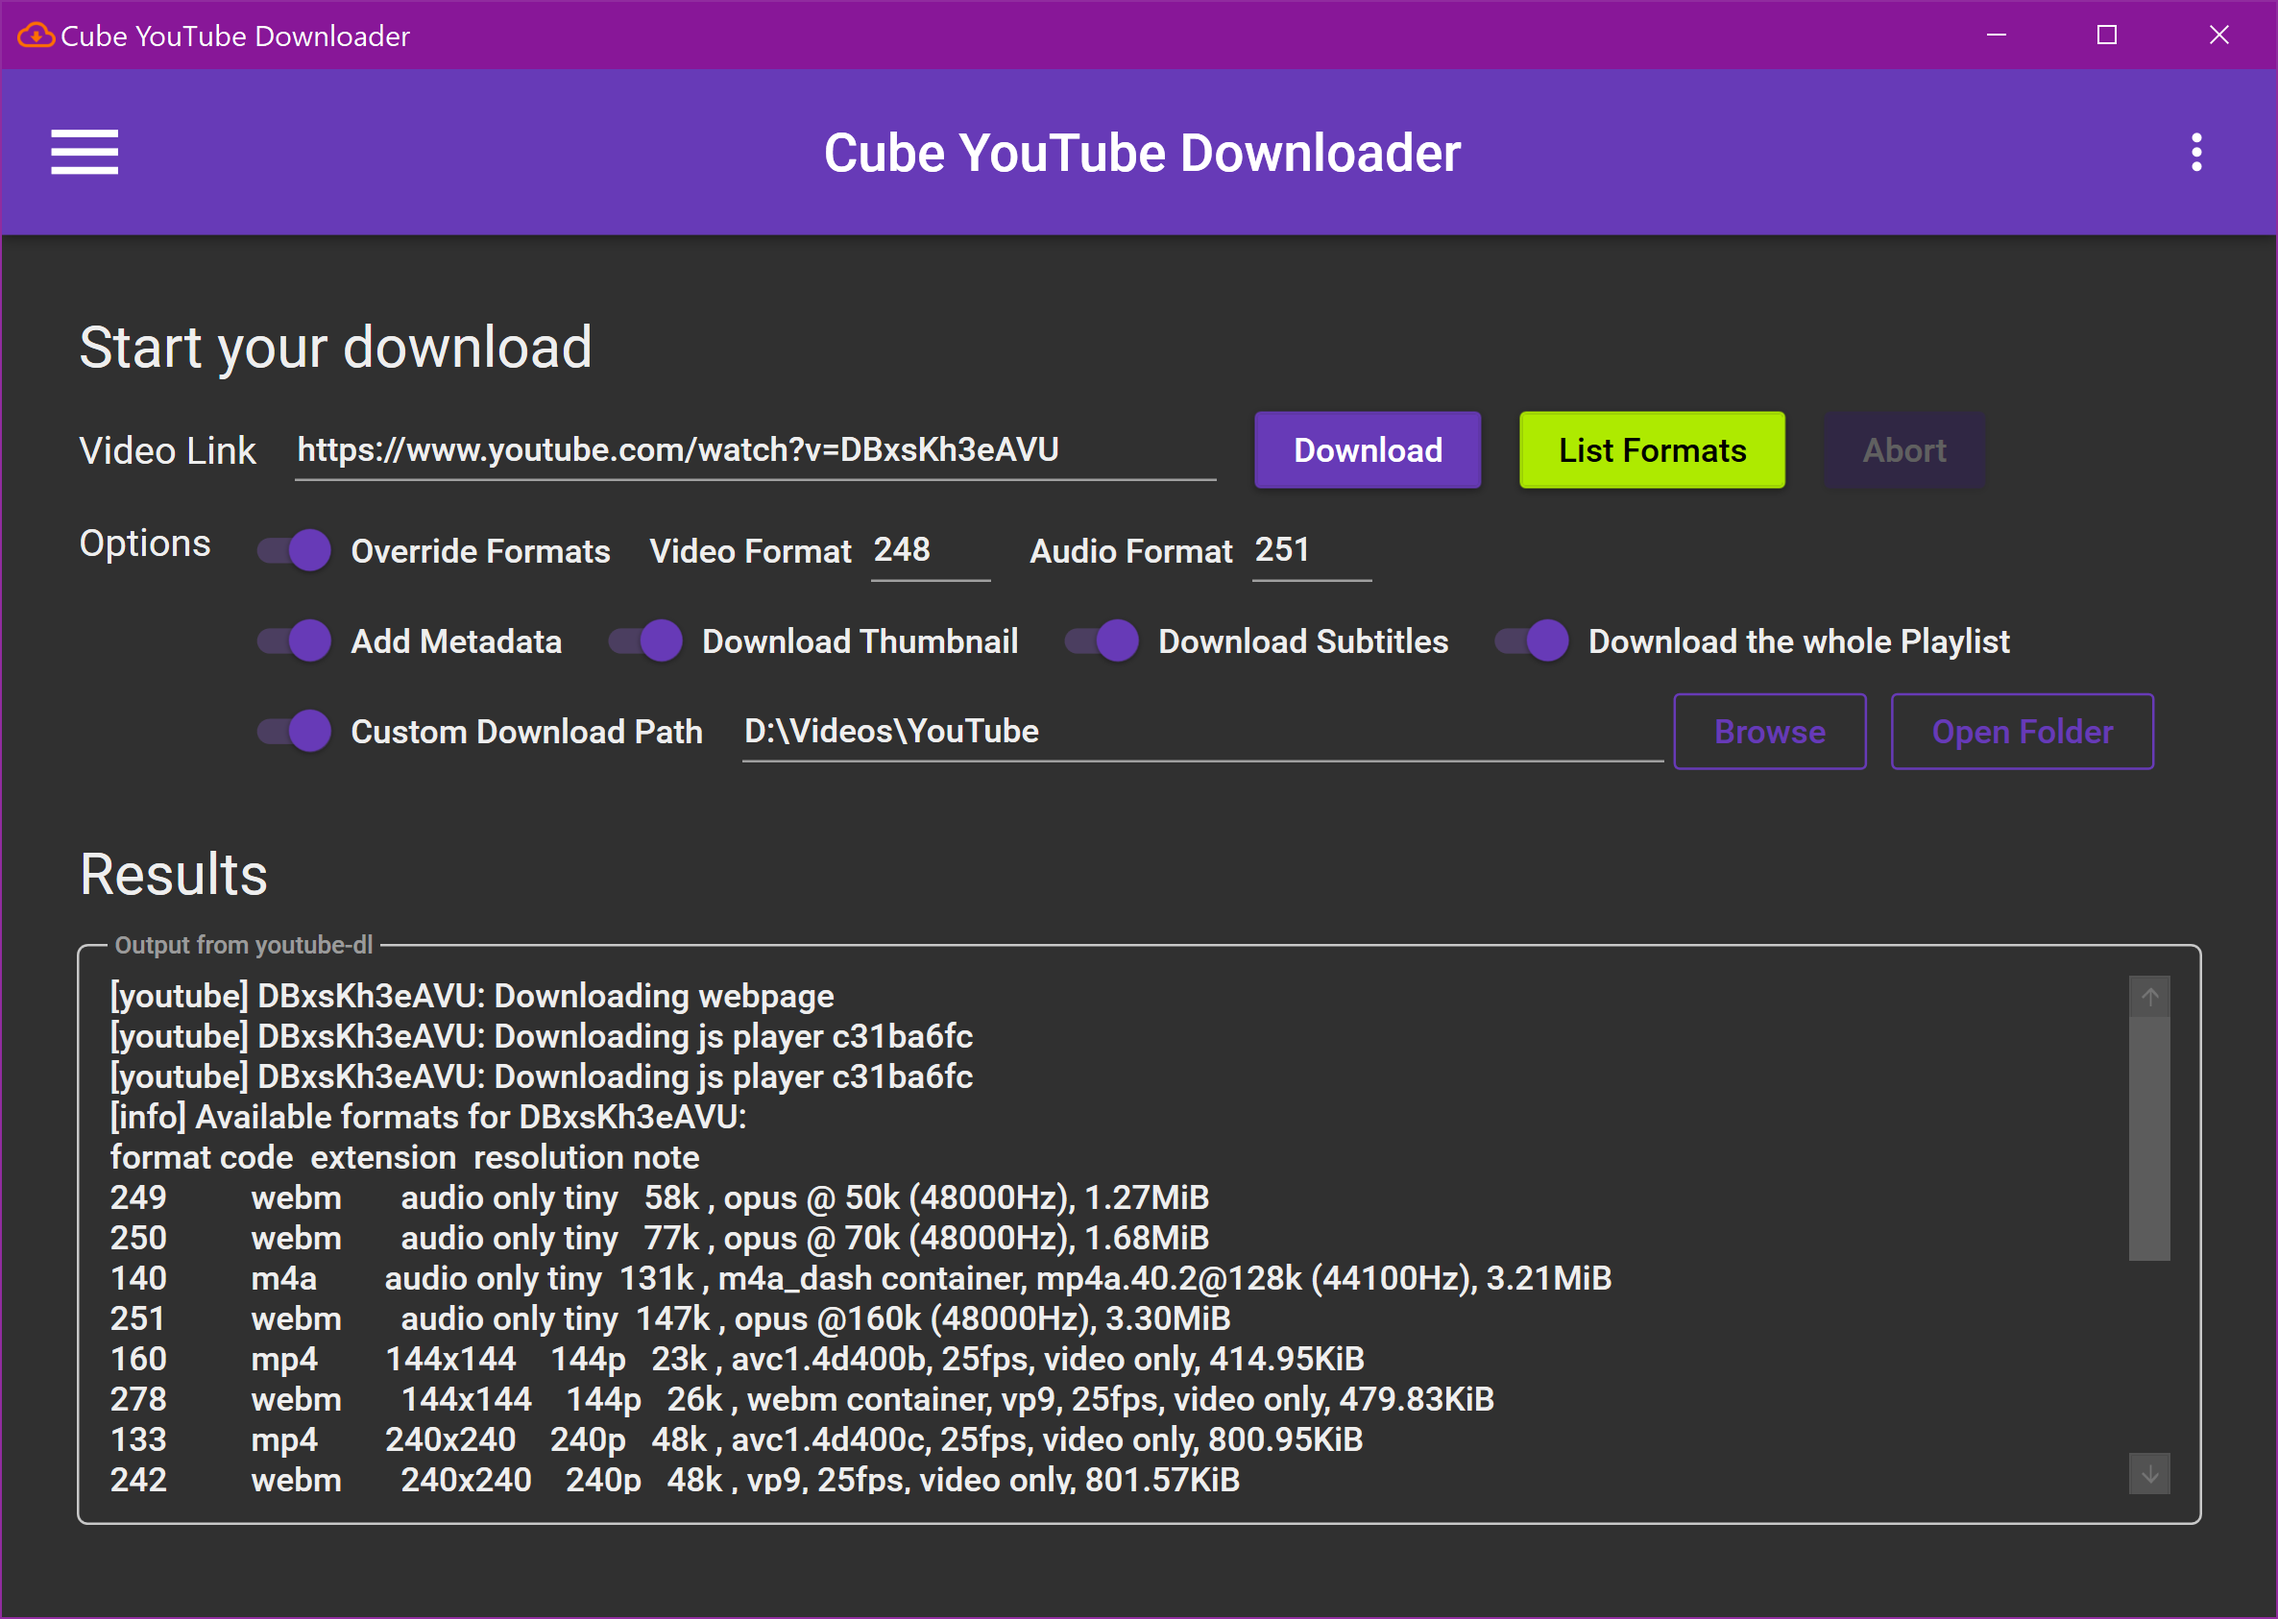
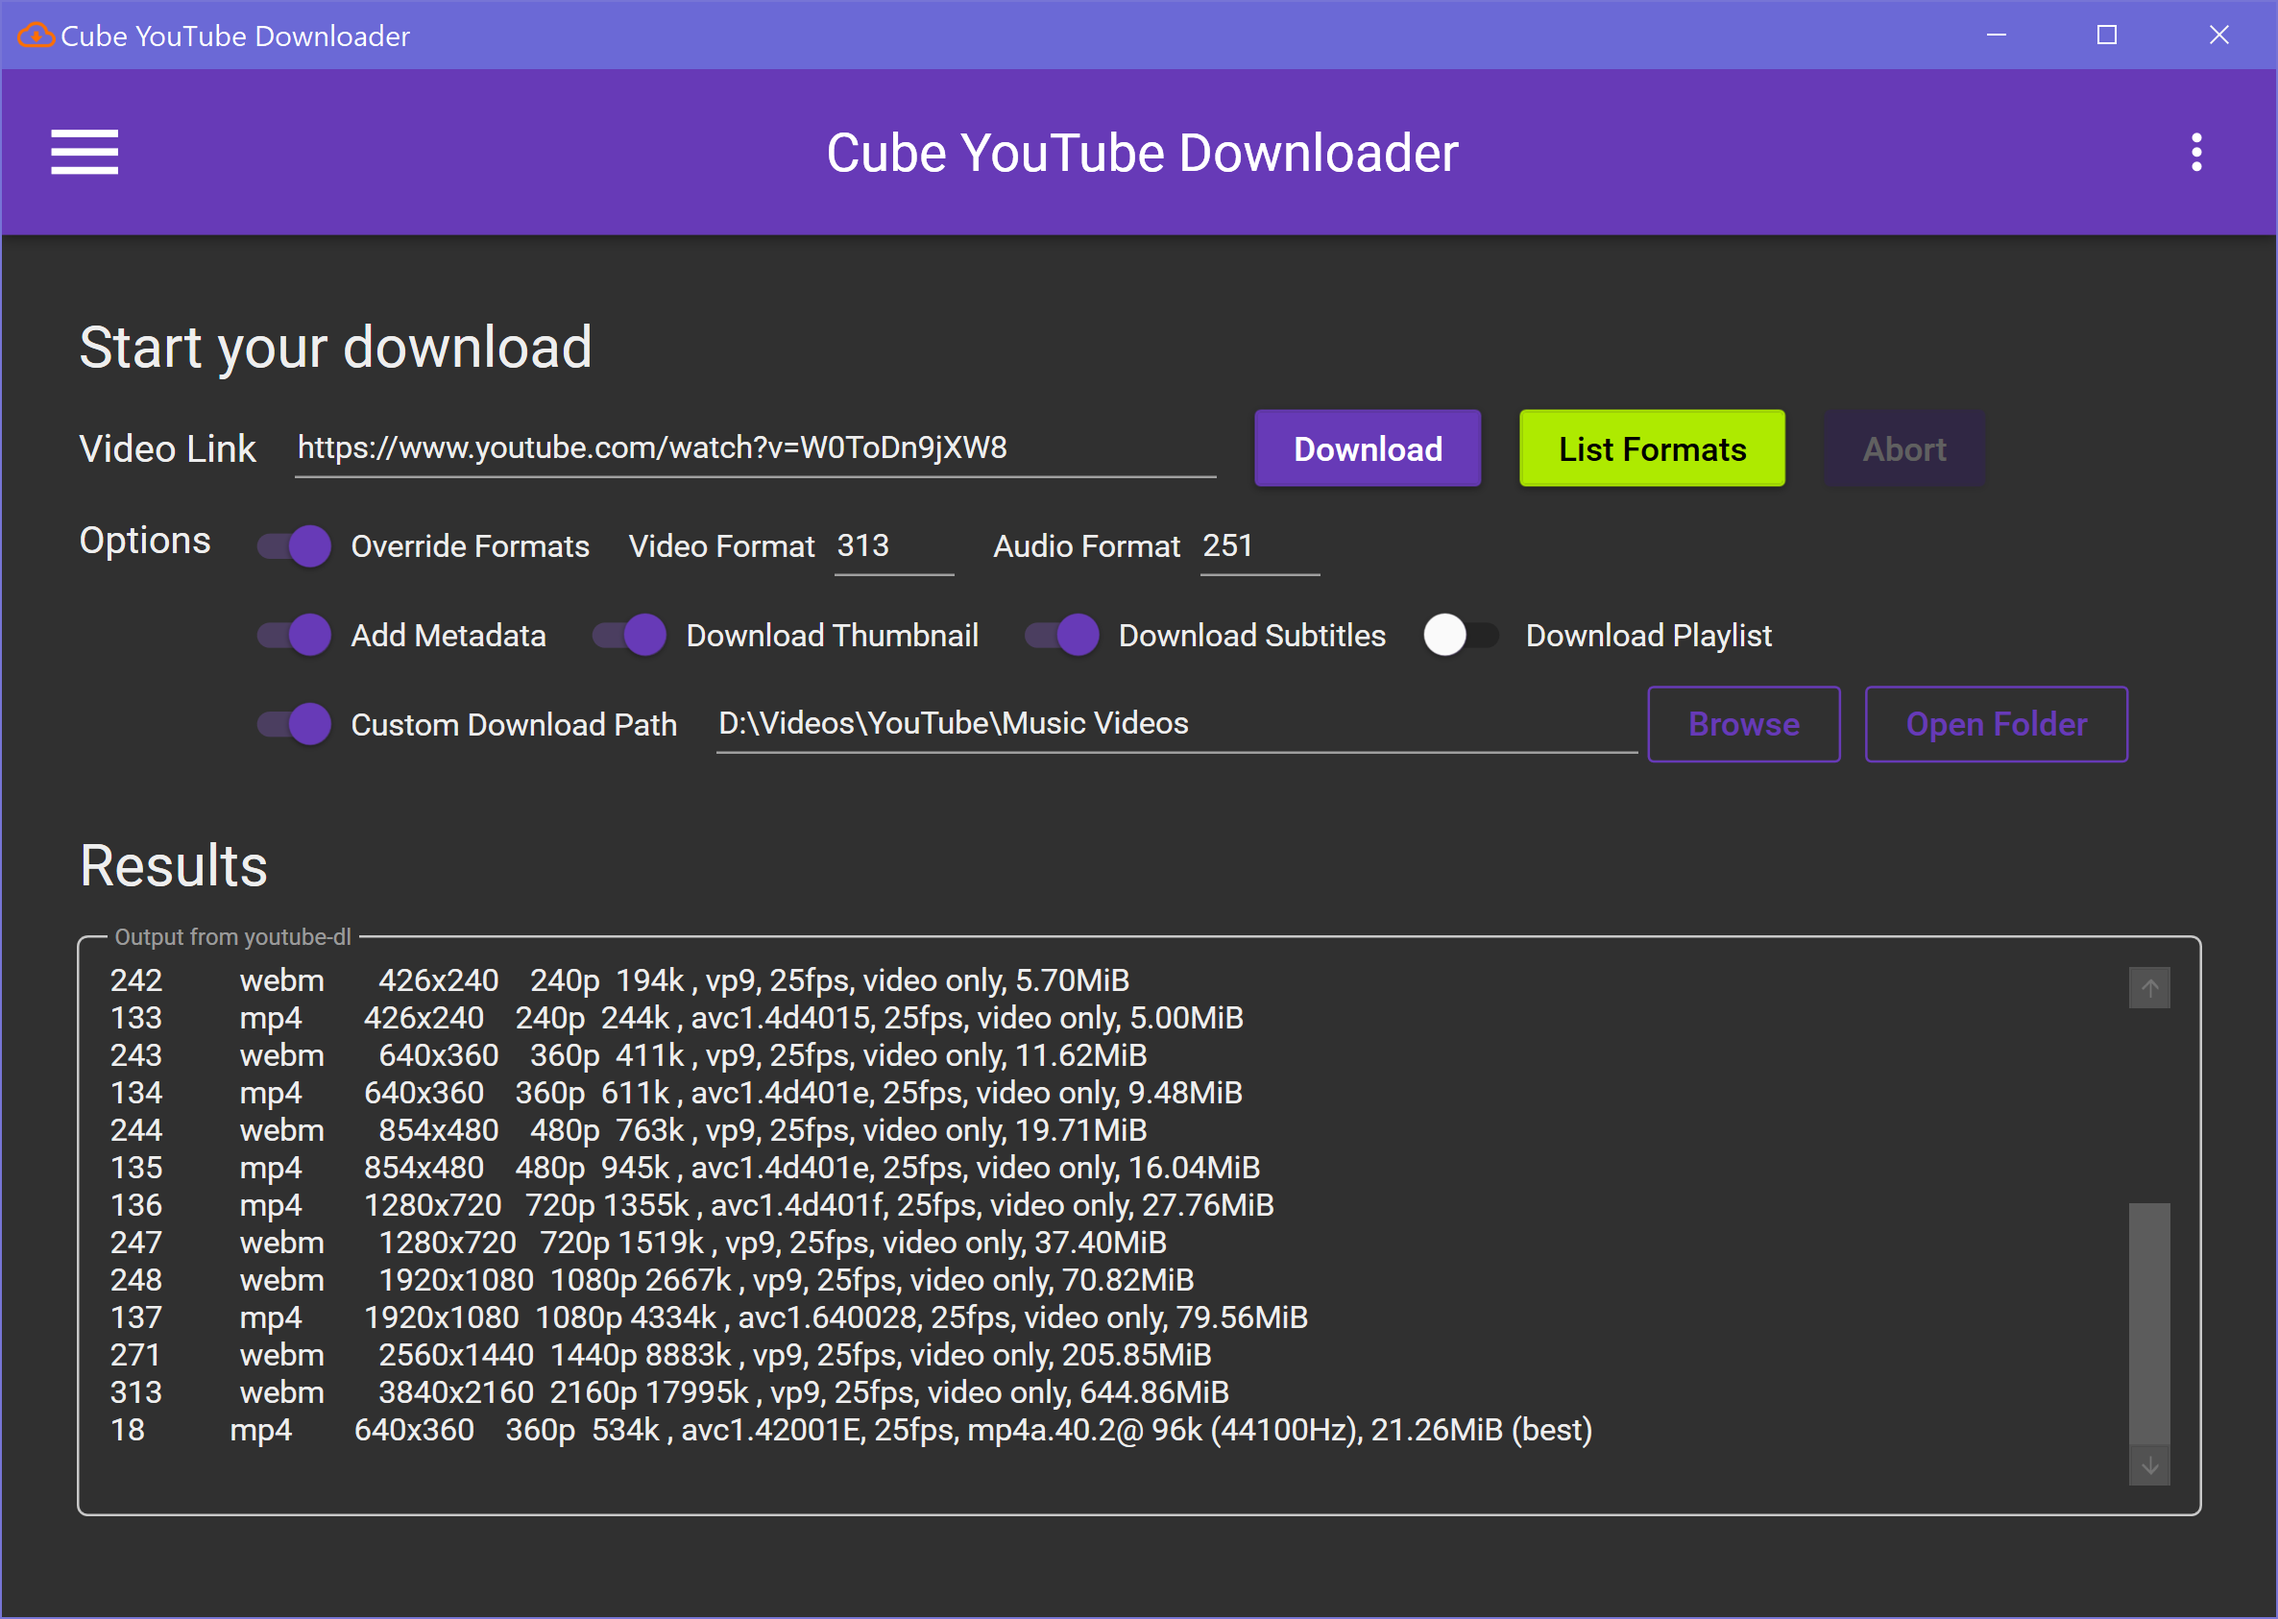
🥽 UI Improvements
- Changed FontWeight from Medium to Regular.
- Changed FontSize from 14 to 13.
- Minor cleanups.

diff --git a/AboutDialog.xaml b/AboutDialog.xaml
@@ -13,7 +13,7 @@
             <RowDefinition Height="auto"/>
             <RowDefinition Height="auto"/>
         </Grid.RowDefinitions>
-        <TextBlock Grid.Row="0" Margin="8" Style="{StaticResource MaterialDesignHeadline5TextBlock}" TextWrapping="Wrap">About - v0.8 Build 20200511</TextBlock>
+        <TextBlock Grid.Row="0" Margin="8" Style="{StaticResource MaterialDesignHeadline5TextBlock}" TextWrapping="Wrap">About - v0.9 Build 20200628</TextBlock>
         <TextBlock Grid.Row="1" Margin="8" Style="{StaticResource MaterialDesignSubtitle1TextBlock}" TextWrapping="Wrap">Cube YouTube Downloader is a simple GUI wrapper for <Hyperlink RequestNavigate="Hyperlink_RequestNavigate" NavigateUri="https://github.com/ytdl-org/youtube-dl">https://github.com/ytdl-org/youtube-dl</Hyperlink></TextBlock>
         <TextBlock Grid.Row="2" Margin="8" Style="{StaticResource MaterialDesignSubtitle1TextBlock}" TextWrapping="Wrap">For more information please visit <Hyperlink RequestNavigate="Hyperlink_RequestNavigate" NavigateUri="https://github.com/database64128/youtube-dl-wpf">https://github.com/database64128/youtube-dl-wpf</Hyperlink></TextBlock>
         <Button Grid.Row="3" 

diff --git a/MainWindow.xaml b/MainWindow.xaml
@@ -6,11 +6,11 @@
         xmlns:materialDesign="http://materialdesigninxaml.net/winfx/xaml/themes"
         mc:Ignorable="d"
         TextElement.Foreground="{DynamicResource MaterialDesignBody}"
-        Background="{DynamicResource MaterialDesignPaper}"
-        TextElement.FontWeight="Medium"
-        TextElement.FontSize="14"
+        TextElement.FontWeight="Regular"
+        TextElement.FontSize="13"
         TextOptions.TextFormattingMode="Ideal" 
         TextOptions.TextRenderingMode="Auto"
+        Background="{DynamicResource MaterialDesignPaper}"
         FontFamily="{materialDesign:MaterialDesignFont}"
         Title="Cube YouTube Downloader" Height="680" Width="960">
     <materialDesign:DialogHost Identifier="RootDialog" SnackbarMessageQueue="{Binding ElementName=MainSnackbar, Path=MessageQueue}">

diff --git a/Home.xaml b/Home.xaml
@@ -92,7 +92,7 @@
                             x:Name="playlistToggle"
                             Margin="8"
                             IsChecked="{Binding Playlist}"/>
-                        <TextBlock VerticalAlignment="Center" Margin="0,8,8,8">Download the whole Playlist</TextBlock>
+                        <TextBlock VerticalAlignment="Center" Margin="0,8,8,8">Download Playlist</TextBlock>
                     </StackPanel>
                     <StackPanel Orientation="Horizontal" Grid.Row="2">
                         <ToggleButton

diff --git a/SettingsJson.cs b/SettingsJson.cs
@@ -63,8 +63,7 @@ namespace youtube_dl_wpf
             if (!File.Exists("Settings.json"))
             {
                 settings = new SettingsJson();
-                settings.AutoUpdateDl = true;
-                SaveSettings();
+                await SaveSettingsAsync();
                 return;
             }
             using var _settingsJson = new FileStream("Settings.json", FileMode.OpenOrCreate);

diff --git a/README.md b/README.md
@@ -35,7 +35,7 @@ A simple GUI wrapper for [`youtube-dl`](https://github.com/ytdl-org/youtube-dl).
 - _A:_ First use the "List Formats" button to ask youtube-dl to list all available formats. To specify the video and audio format, toggle "Override Formats" and fill in the format numbers, as shown in the screenshots above.
 
 - _Q:_ How can I use a proxy to download?
-- _A:_ Leave the proxy field empty to use system proxy settings. Otherwise the format is similar to how `curl` accepts proxy strings. Examples are, `socks5://localhost:1080`, `http://localhost:8080`. Currently the upstream doesn't accept `socks5h` protocol and treat `socks5` as `socks5h` by always resolving the hostname using the proxy. This is tracked in ytdl-org/youtube-dl#22618.
+- _A:_ Leave the proxy field empty to use system proxy settings. Otherwise the format is similar to how `curl` accepts proxy strings. Examples are, `socks5://localhost:1080/`, `http://localhost:8080/`. Currently the upstream doesn't accept `socks5h` protocol and treat `socks5` as `socks5h` by always resolving the hostname using the proxy. This is tracked in [this issue](https://github.com/ytdl-org/youtube-dl/issues/22618).
 
 - _Q:_ Downloading the whole playlist doesn't work!
 - _A:_ It's an upstream bug, just like many other issues you might discover. There's nothing I can do. Just report the bug to the [upstream](https://github.com/ytdl-org/youtube-dl).
